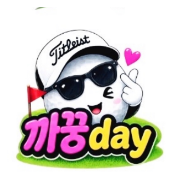
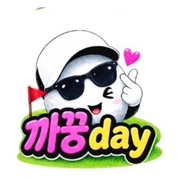
아이콘에서 남의 상표를 지웠다
모자에 `Titleist` 글자가 있었다. 모임끼리 쓸 때는 문제가 없지만 스토어에
올릴 때 아이콘에 남의 상표가 있으면 반려 사유가 된다.

- 글자만 지우고 모자의 윤곽선은 그대로 뒀다. 글자 덩어리가 '글자 영역 안에
  통째로 들어가는' 것만 골라 지웠더니 윤곽선(왼쪽으로 삐져나감)과 공
  덩어리(아래로 삐져나감)가 저절로 빠졌다. 지운 자리는 주변 모자색으로 메웠다.
- 네 파일을 같은 그림에서 다시 만들었다 — icon-192 · icon-512 ·
  apple-touch-icon(180) · icon-maskable(512, 80%로 줄여 흰 바탕 가운데).
  마스커블의 80%는 예전 파일에서 잰 비율 그대로다.

로그인 화면·첫 화면·알림 아이콘이 모두 이 파일들을 쓰므로 함께 바뀐다.

Claude-Session: https://claude.ai/code/session_01SPpTyzZnTYqVoytSaPS5ot

diff --git a/CLAUDE.md b/CLAUDE.md
@@ -146,6 +146,14 @@ docs/설치.md   Supabase·카카오를 처음 붙이는 절차
 선글라스 낀 골프공 스티커 — 흰 공, 잔디 초록, `까꿍`의 분홍, `day`의 노랑,
 두꺼운 검은 테두리. 그 다섯을 `tokens.css`로 옮겼다.
 
+**모자에 있던 남의 상표(`Titleist`)는 지웠다.** 스토어에 올릴 때 아이콘에
+남의 상표가 있으면 반려 사유가 된다. 지금 모자는 글자 없는 흰색이다 —
+**상표가 있는 옛 그림으로 되돌리지 말 것.** 파일은 넷이고 모두 같은 그림에서
+나왔다: `icon-192` · `icon-512` · `apple-touch-icon`(180) ·
+`icon-maskable`(512, **80%로 줄여 흰 바탕 가운데**에 둔 것 — 안드로이드가
+아이콘을 동그랗게 잘라도 그림이 안 잘리게 하는 여백이다).
+하나만 바꾸면 자리마다 다른 아이콘이 뜨므로 **넷을 함께 만들 것.**
+
 - **밝은 화면이다.** 골프장 햇빛 아래에서는 어두운 화면이 안 보인다.
   예전에는 짙은 남색이었다. 어두운 테마는 없다 — 하나만 잘 만든다.
 - **제목은 `Jua`**(`--font-display`)를 쓴다. 아이콘의 통통한 글씨와 같은
